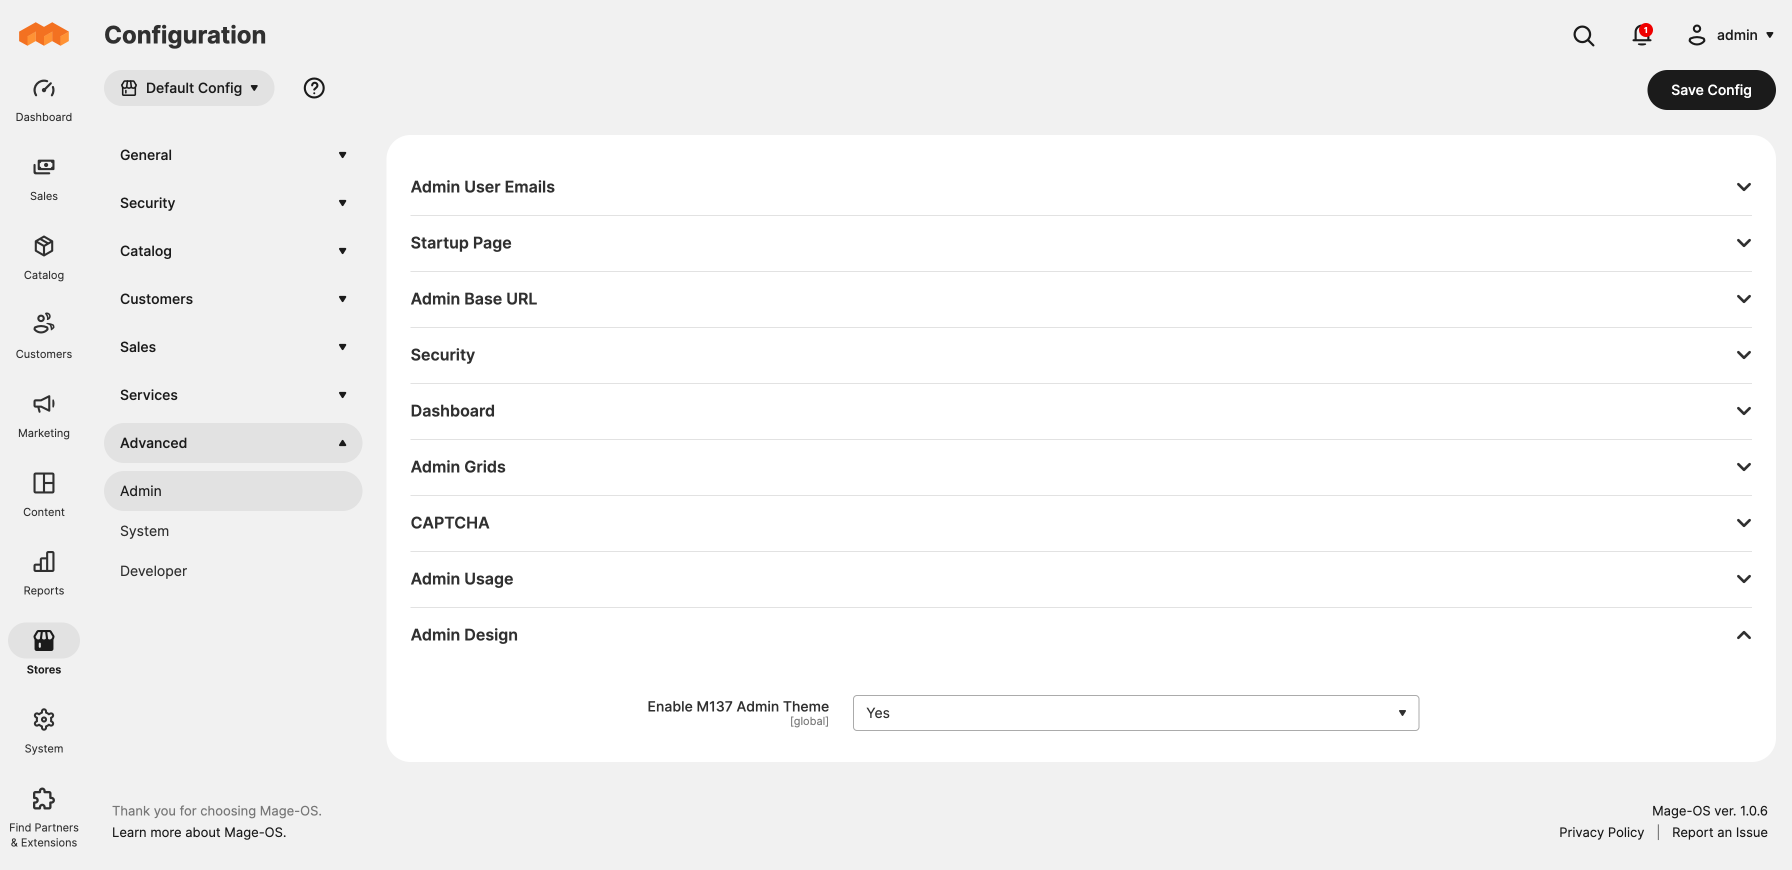
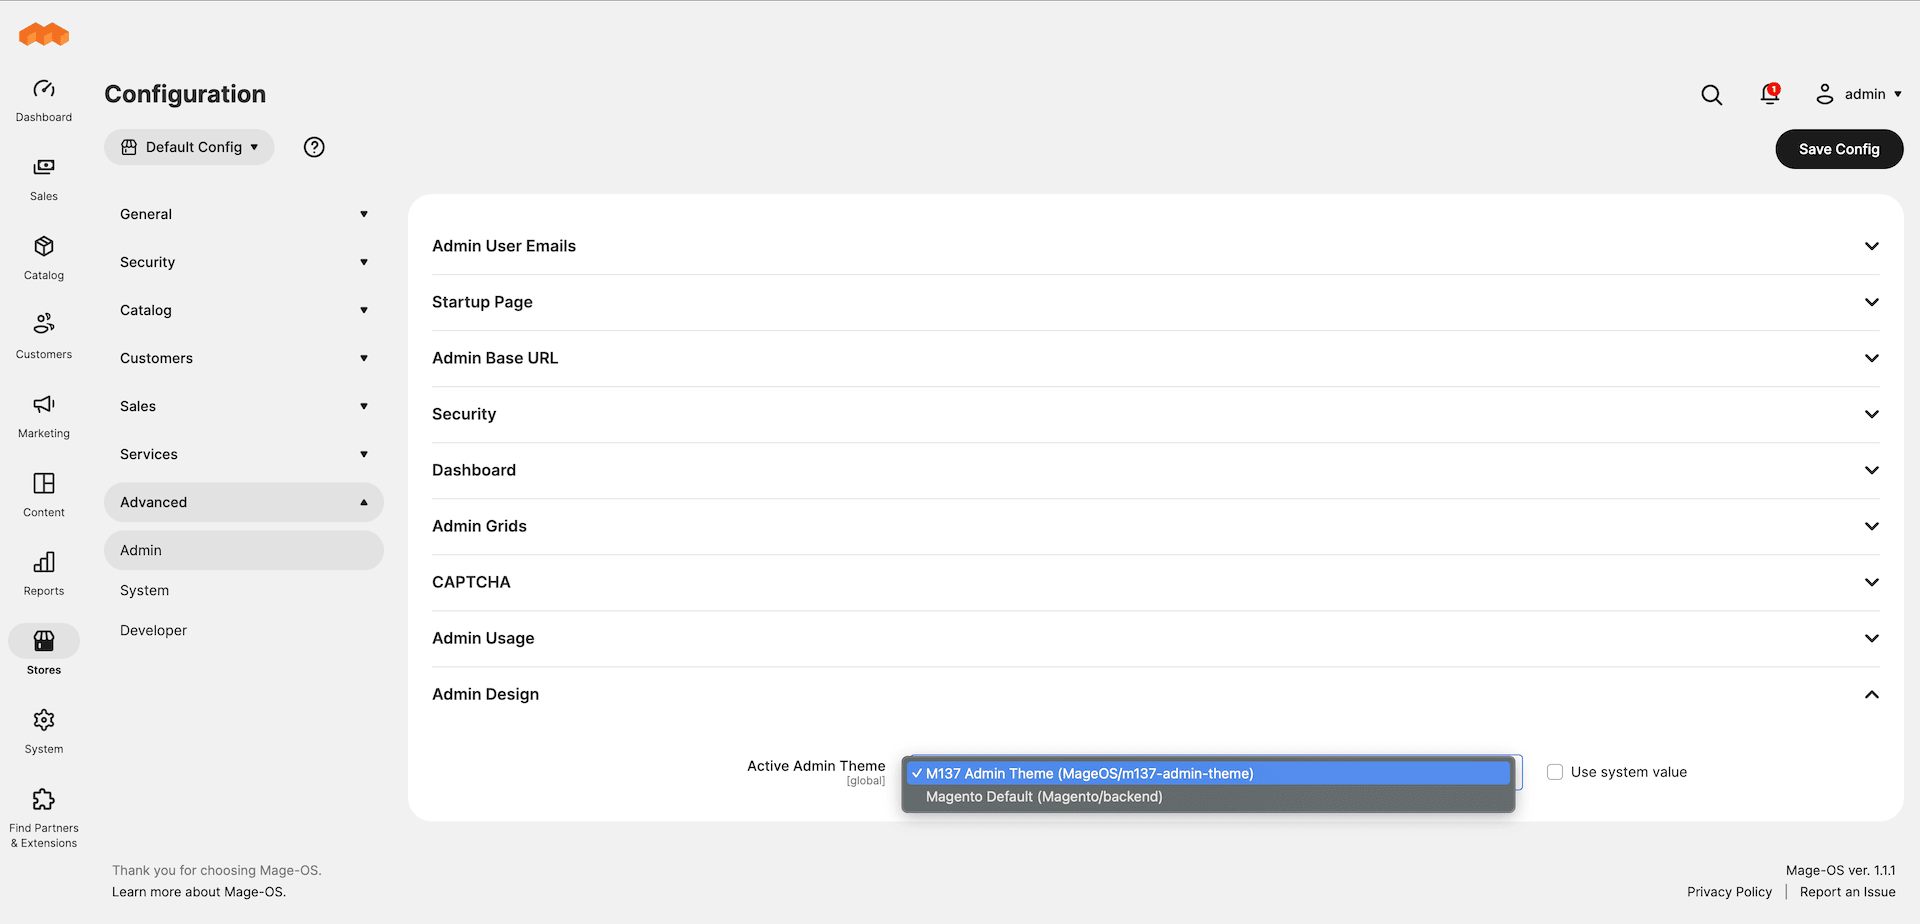
Update README/CHANGELOG for select switcher release (#10)
* Update README/CHANGELOG for select switcher release

* Fix CHANGELOG typo

diff --git a/README.md b/README.md
@@ -2,9 +2,11 @@
 
 ## Features
 
-This module enables M137 Admin Theme for Mage-OS. This is a companion module to the [mage-os/theme-adminhtml-m137](https://github.com/mage-os-lab/theme-adminhtml-m137)
+This module enables M137 Admin Theme for Mage-OS and allows admin users to select the active admin theme via configuration. This is a companion module to the [mage-os/theme-adminhtml-m137](https://github.com/mage-os-lab/theme-adminhtml-m137)
 
 ## Installation
+
+This module is included as part of Mage-OS M137 Admin Theme ([mage-os/theme-adminhtml-m137](https://github.com/mage-os-lab/theme-adminhtml-m137)) and is recommended to be installed via the theme package. Individual installation instructions are provided below, if needed:
 
 ```
 composer require mage-os/module-theme-adminhtml-switcher
@@ -30,7 +32,7 @@ Stores > | Settings | Configuration > Advanced > Admin > Admin Design
 ```
 
 ```
-Enable M137 Admin Theme: Yes / No
+Active Admin Theme: select the desired theme from those installed
 ```
 
 ## Changelog

diff --git a/CHANGELOG.md b/CHANGELOG.md
@@ -6,6 +6,33 @@ and this project adheres to [Semantic Versioning](http://semver.org/spec/v2.0.0.
 
 ## [Unreleased]
 
+## [1.2.0] - 2025-XX-XX
+
+### Added
+
+- New system configuration option that allows selection of the active admin theme from those installed
+
+### Changed
+
+- Theme selector plugin now reads from the new system configuration value
+- Default config values (`etc/config.xml`) now reference the new system configuration value
+
+### Removed
+
+- Existing system configuration to enable/disable the Mage-OS admin theme
+
+## [1.1.1] - 2025-04-29
+
+### Changed
+
+- Theme selector plugin now returns early if not in admin scope, including when using emulation
+
+## [1.1.0] - 2025-04-15
+
+### Changed
+
+- Corrected composer package name in README.md
+
 ## [1.0.0] - 2025-04-08
 
 ### Added
